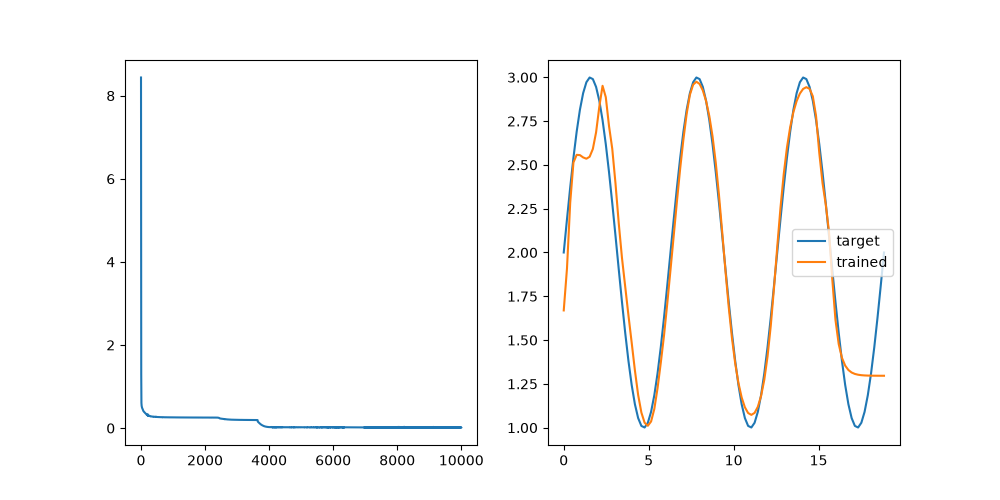
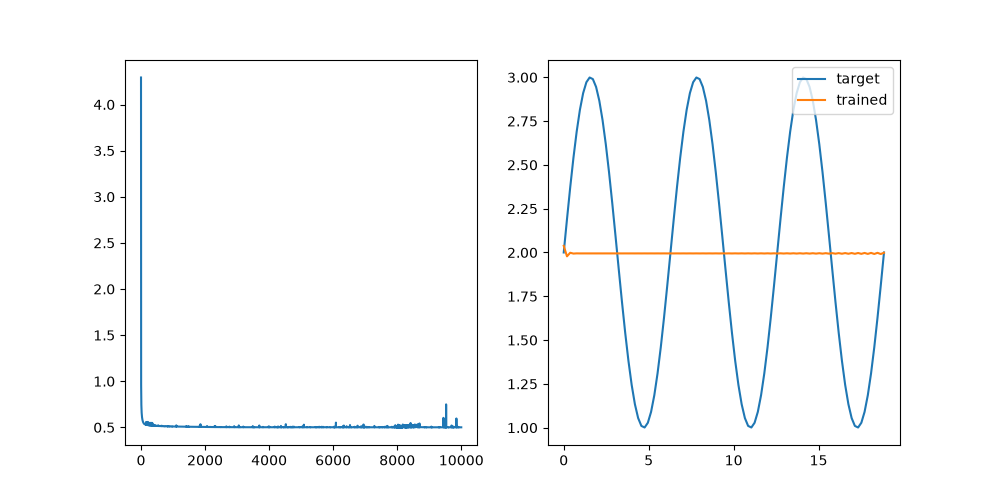
comine_ensemble_outputx axis argument, infomax experiment

diff --git a/jax_rtrl/models/plasticity.py b/jax_rtrl/models/plasticity.py
@@ -22,18 +22,25 @@ class Plasticity:
         @param traces:
         @return: traces so calls can be chained
         """
-        batched_units = (batch_size, self.cell.units) if batch_size else (self.cell.units,)
+        batched_units = (
+            (batch_size, self.cell.units) if batch_size else (self.cell.units,)
+        )
         # batched_out = (batch_size, self.cell.out_size) if batch_size else (
         #     self.cell.out_size,)
         # P = dh/dw
-        traces["P"] = jax.tree.map(lambda x: jnp.zeros(batched_units + x.shape), eqx.filter(self.cell, eqx.is_array))
+        traces["P"] = jax.tree.map(
+            lambda x: jnp.zeros(batched_units + x.shape),
+            eqx.filter(self.cell, eqx.is_array),
+        )
         # if self.cell.output_mapping:
         #     # P_out = (dy/dw_out, dy/db_out)
         #     traces['P_out'] = (jnp.zeros(batched_out + self.cell.w_out.shape),
         #                        jnp.zeros(batched_out + self.cell.b_out.shape))
         if self.cell.with_dh_h:
             # Q = dh/dh
-            traces["Q"] = jnp.zeros(batched_units + (self.cell.input_size + self.cell.units,))
+            traces["Q"] = jnp.zeros(
+                batched_units + (self.cell.input_size + self.cell.units,)
+            )
         return traces
 
     @staticmethod
@@ -73,7 +80,9 @@ class Plasticity:
         @param dout:
         @return: Dictionary where key is the name of the weight and value is the update
         """
-        gradients = jax.tree.map(lambda t: jnp.einsum("H,H...->...", dout, t), traces["P"])
+        gradients = jax.tree.map(
+            lambda t: jnp.einsum("H,H...->...", dout, t), traces["P"]
+        )
 
         if with_dy_dx:
             dy_dx = jnp.einsum("H,H...->...", dout, traces["Q"])[..., : cell.input_size]
@@ -120,7 +129,9 @@ class LocalMSE(Plasticity):
             out["P_out"] = (jac_out.w_out, jac_out.b_out)
 
         if cell.with_dh_h:
-            jac_cell, jac_pre = jax.jacrev(cell.f, argnums=[0, 2], has_aux=True)(cell, [0], pre)[0]
+            jac_cell, jac_pre = jax.jacrev(cell.f, argnums=[0, 2], has_aux=True)(
+                cell, [0], pre
+            )[0]
             out["Q"] = jac_pre[-cell.units :, -cell.units :]
         else:
             jac_cell = jax.jacrev(cell.f, argnums=0, has_aux=True)(cell, [0], pre)[0]
@@ -161,15 +172,25 @@ class RTRL(Plasticity):
             return p + (rec + dh[-cell.units :]) * cell.dt
 
         # immediate jacobian (this step)
-        df_dw, df_dh = jax.jacrev(cell.f, argnums=[0, 2], has_aux=True)(cell, [0], pre)[0]
+        df_dw, df_dh = jax.jacrev(cell.f, argnums=[0, 2], has_aux=True)(cell, [0], pre)[
+            0
+        ]
 
         # dh/dh = d(h + f(h) * dt)/dh = I + df/dh * dt
-        identitiy = jnp.concatenate([jnp.zeros((cell.units, cell.input_size)), jnp.identity(cell.units)], axis=-1)
+        identitiy = jnp.concatenate(
+            [jnp.zeros((cell.units, cell.input_size)), jnp.identity(cell.units)],
+            axis=-1,
+        )
         dh_dh = identitiy + df_dh[-cell.units :]
         # / cell.dt
 
         # jacobian trace (previous step * dh_h)
-        comm = jax.tree.map(lambda p: jnp.tensordot(df_dh[..., -cell.units :, -cell.units :], p, axes=1), P)
+        comm = jax.tree.map(
+            lambda p: jnp.tensordot(
+                df_dh[..., -cell.units :, -cell.units :], p, axes=1
+            ),
+            P,
+        )
 
         # Update dh_dw approximation
         dh_dw = jax.tree.map(rtrl_step, P, comm, df_dw)
@@ -212,7 +233,9 @@ class RFLO(Plasticity):
         df_dh = jax.jacrev(cell.activation)(u)
 
         # Outer product the get Immediate Jacobian
-        M_immediate = jnp.einsum("ij,k", df_dh, jnp.concatenate([pre, jnp.ones(1)]))  # Add one for bias
+        M_immediate = jnp.einsum(
+            "ij,k", df_dh, jnp.concatenate([pre, jnp.ones(1)])
+        )  # Add one for bias
 
         # Update eligibility traces
         P = P + jnp.einsum("i,ijk->ijk", 1 / cell.tau, M_immediate - P)
@@ -241,6 +264,7 @@ class UORO(Plasticity):
         return traces
 
 
+
 class Infomax(Plasticity):
     """Information theoretic plasticity rule that maximizes the mutual information between the input and the output."""
 
@@ -259,6 +283,8 @@ class Infomax(Plasticity):
         @param ctx:
         @return:
         """
+        x = ctx["pre"][:, -1]
+        y = ctx["h_new"][0, -1]
         if self.type == "ax+b":
             if self.activation == "sigm":
                 da = x * (1 - 2 * y) + 1 / (self.a + 1e-8)

diff --git a/jax_rtrl/models/cells/ltc.py b/jax_rtrl/models/cells/ltc.py
@@ -36,8 +36,8 @@ def ltc_farsang(params, h, x):
 
     h' = -fi hi + ui eli.
 
-    fi = Pm+n  \sum gji sigmoid(aji yj + bji) + gli
-    ui = Pm+n  \sum kji sigmoid(aji yj + bji) + gli
+    fi = Pm+n  sum gji sigmoid(aji yj + bji) + gli
+    ui = Pm+n  sum kji sigmoid(aji yj + bji) + gli
     kji = gji eji/eli
     """
     # Concatenate input and hidden state
@@ -102,7 +102,33 @@ class LTCCell(ODECell):
         return 1
 
 
-def rflo_ltc(cell: LTCCell, carry, params, x):
+def infomax(pre, post, a, b, activation="sigm", regularization=1e-3):
+    """Compute the infomax update for the weights.
+
+    Args:
+        pre: pre-synaptic activity
+        post: post-synaptic activity
+        a: gain parameter
+        b: bias parameter
+        activation: activation function
+        regularization: regularization parameter
+    Returns:
+        da: update for gain parameter
+        db: update for bias parameter
+    """
+    if activation == "sigm":
+        da = pre * (1 - 2 * post) + 1 / (a + 1e-8)
+        db = 1 - 2 * post
+    else:
+        da = -2 * pre * post + 1 / (a + 1e-8)
+        db = -2 * post
+    if regularization > 0:
+        da -= regularization * a
+        db -= regularization * b
+    return da, db
+
+
+def rflo_ltc(cell: LTCCell, carry, params, x, use_infomax=True):
     """Compute jacobian trace for RFLO."""
     h, jp, jx = carry
 
@@ -138,6 +164,8 @@ def rflo_ltc(cell: LTCCell, carry, params, x):
     # dh_db = dh_dh[:, None] * jp["b"]
 
     # Infomax
+    if use_infomax:
+        dh_da, dh_db = infomax(y, syn, params["a"], params["b"], activation="sigm")
     # dh_db = 1 - 2 * syn
     # dh_da = 1 / params["a"] + y * dh_db
 
@@ -174,7 +202,13 @@ class OnlineLTCCell(OnlineODECell, LTCCell):
                 traces = snap0(self, carry, _p["params"], x, ode=_ode_fn)
 
         elif self.plasticity == "rflo":
-            traces = rflo_ltc(self, carry, _p["params"], x)
+            traces = rflo_ltc(
+                self,
+                carry,
+                _p["params"],
+                x,
+                use_infomax=self.non_rtrl_params is not None,
+            )
         else:
             raise ValueError(f"Plasticity mode {self.plasticity} not recognized.")
         return traces

diff --git a/jax_rtrl/models/cells/ode.py b/jax_rtrl/models/cells/ode.py
@@ -39,7 +39,7 @@ class ODECell(nn.RNNCellBase):
                 self.make_rng() if self.has_rng("params") else None,
                 w_shape,
                 int,
-            )#.value
+            )  # .value
 
     def solve(self, h, x, return_sequences=False):
         """Solve ODE over time T with step dt."""
@@ -80,6 +80,7 @@ class OnlineODECell(ODECell):
     """Online CTRNN module."""
 
     plasticity: str = "rtrl"
+    non_rtrl_params: list[str] = field(default_factory=list)
 
     @nn.compact
     def __call__(self, carry, x, return_sequences=False):  # noqa
@@ -139,8 +140,18 @@ class OnlineODECell(ODECell):
                 # carry, jp, jx, hebb = tmp
                 df_dy = y_bar[-1]
                 df_dy += y_bar[-2][0]  # Also include carry grad
+                h, jp, jx = tmp
+                # Split into RTRL and non-RTRL params (e.g. for infomax)
+                _rtrl_grads = {
+                    k: v for k, v in jp.items() if k not in self.non_rtrl_params
+                }
+                # Compute RTRL gradients
                 grads_p, grads_x = self.online_gradient(
-                    tmp, df_dy, plasticity=self.plasticity
+                    _rtrl_grads, jx, df_dy, plasticity=self.plasticity
+                )
+                # Merge with non-RTRL params
+                grads_p.update(
+                    {k: v for k, v in jp.items() if k in self.non_rtrl_params}
                 )
                 # grads_p['W'] += hebb
                 carry = jax.tree.map(jnp.zeros_like, tmp)
@@ -170,10 +181,9 @@ class OnlineODECell(ODECell):
         raise NotImplementedError("_trace_update must be implemented in subclasses.")
 
     @staticmethod
-    def online_gradient(carry, df_dy, plasticity="rflo"):
+    def online_gradient(jp, jx, df_dy, plasticity="rflo"):
         """Compute RTRL gradient."""
-        h, jp, jx = carry
-        if plasticity == "rtrl":
+        if plasticity in ["rtrl", "snap0"]:
             grads_p = jax.tree.map(lambda t: df_dy @ t, jp)
         else:
             grads_p = jax.tree.map(lambda t: (df_dy.T * t.T).T, jp)

diff --git a/jax_rtrl/models/seq_models.py b/jax_rtrl/models/seq_models.py
@@ -572,7 +572,7 @@ def make_obs_visibility_mask(rng, shape, visible_prob=1.0, first_full=True):
         return mask
 
 
-def combine_ensemble_outputs(outs, method="mean", combine_layer=None, x=None):
+def combine_ensemble_outputs(outs, method="mean", combine_layer=None, x=None, axis=-2):
     """Combine outputs from ensemble modules using the specified method.
 
     Args:
@@ -585,15 +585,15 @@ def combine_ensemble_outputs(outs, method="mean", combine_layer=None, x=None):
     # Combine them using ensemble method
     if method == "mean":
         # Compute mean of outputs
-        combined_dist = jax.tree.map(lambda d: d.mean(axis=0), outs)
+        combined_dist = jax.tree.map(lambda d: d.mean(axis=axis), outs)
     elif method == "median":
         # Compute median of outputs
-        combined_dist = jax.tree.map(lambda d: d.median(axis=0), outs)
+        combined_dist = jax.tree.map(lambda d: d.median(axis=axis), outs)
     elif method == "linear":
         # Compute linear combination of outputs
         out_gates = combine_layer(x)
         out_gates = jax.nn.softmax(out_gates, axis=-1)
-        combined_dist = jax.tree.map(lambda d: jnp.dot(out_gates, d), outs)
+        combined_dist = jax.tree.map(lambda d: jnp.dot(out_gates, d, axis=axis), outs)
     elif method == "dist":
         combined_dist = UniformMixture(outs)
     elif method == "kalman":
@@ -710,6 +710,7 @@ class RNNEnsemble(nn.RNNCellBase):
                     if self.config.ensemble_method == "linear"
                     else None,
                     x=jnp.concatenate([outs.flatten(), x.flatten()], axis=-1),
+                    axis=0,
                 )
             else:
                 # Do not combine, return all distributions

diff --git a/jax_rtrl/supervised/supervised_online.py b/jax_rtrl/supervised/supervised_online.py
@@ -30,20 +30,29 @@ class TrainingConfig:
     # dataset: str = "legacy_rollouts"
     dataset: str = "sine"
     # dataset: str = "spirals"
-    learning_rate: float = 1e-4
+    learning_rate: float = 3e-4
     gradient_clip: float | None = None
     num_steps: int = 10000
 
     rnn_config: RNNEnsembleConfig = field(
         default_factory=lambda: RNNEnsembleConfig(
+            ## CT-RNN
             model_name="rflo",
+            # model_name="eprop",
             # model_name="snap0",
             # model_name="rtrl",
+            ## LRC
+            # model_name="lrc_rflo",
             # model_name="lrc_snap0",
-            # model_name="ltc_rtrl",
             # model_name="lrc_rtrl",
+            ## LTC
             # model_name="ltc_rflo",
-            _layers=(32,),
+            # model_name="ltc_rflo_infomax",
+            # model_name="ltc_snap0",
+            # model_name="ltc_rtrl",
+            ## LRU
+            # model_name="lru_rtrl",
+            _layers=(16,),
             num_modules=1,
             num_blocks=1,
             layer_config=SequenceLayerConfig(
@@ -161,8 +170,8 @@ def main(cfg: TrainingConfig, plot: bool = True):
             plt.savefig("plots/sinewave.png")
             plt.show()
         else:
-            plt.plot(y_test[:, 0, ..., 0], label="target")
-            plt.plot(y_hat[:, 0, ..., 0], label="trained")
+            plt.plot(y_test[0, :100, 0], label="target")
+            plt.plot(y_hat[0, :100, 0], label="trained")
             plt.legend()
             os.makedirs("plots/supervised", exist_ok=True)
             plt.savefig(

diff --git a/jax_rtrl/models/cells/lrc.py b/jax_rtrl/models/cells/lrc.py
@@ -111,14 +111,13 @@ class LRCCell(ODECell):
 def rflo_lrc(cell: LRCCell, carry, params, x):
     """Compute jacobian trace for RFLO."""
     h, jp, jx = carry
-    W, tau = params.values()
 
     jw = jp["W"]
     jtau = jp["tau"]
 
     # immediate jacobian (this step)
     v = jnp.concatenate([x, h, jnp.ones(x.shape[:-1] + (1,))], axis=-1)
-    u = v @ W.T
+    u = v @ params["W"].T
     # df_dh = jax.jacfwd(jax.nn.tanh)(u)
     # df_dh = jax.jacrev(jax.nn.tanh)(u)
     df_dh = 1 - jnp.tanh(u) ** 2
@@ -131,9 +130,9 @@ def rflo_lrc(cell: LRCCell, carry, params, x):
     M_immediate = df_dh[..., None] * v[None]
 
     # Update eligibility traces
-    jw += (1 / tau)[:, None] * (M_immediate - jw)
-    dh_dtau = ((h - jnp.tanh(u)) / tau) - jtau
-    jtau += dh_dtau / tau
+    jw += (1 / params["tau"])[:, None] * (M_immediate - jw)
+    dh_dtau = ((h - jnp.tanh(u)) / params["tau"]) - jtau
+    jtau += dh_dtau / params["tau"]
 
     df_dw = {"W": jw, "tau": jtau}
     dh_dx = jnp.outer(
@@ -143,7 +142,7 @@ def rflo_lrc(cell: LRCCell, carry, params, x):
                 [jnp.ones_like(x), jnp.zeros_like(h), jnp.zeros(x.shape[:-1] + (1,))],
                 axis=-1,
             )
-            @ W.T
+            @ params["W"].T
         )[..., : x.shape[-1]],
     )
     # dh_dh = df_dh @ W.T[x.shape[-1]:x.shape[-1]+h.shape[-1]]

diff --git a/jax_rtrl/supervised/example_datasets.py b/jax_rtrl/supervised/example_datasets.py
@@ -229,11 +229,12 @@ def sine(length=100, offset=2, num_periods=3):
 # Gym Simulations ---------------------------------------------------------------
 
 
-def legacy_rollouts(data_folder="data/spring/halfcheetah", with_time=False):
+def legacy_rollouts(data_folder="data/brax/spring/ant", with_time=False):
     """Load a dataset from the BulletEnv simulator."""
     outputs, _ = load_np_files_from_folder(data_folder, is_npz=True, stack=False)
-    obs = outputs["obs"]
-    return obs, obs
+    obs = outputs["obs"][..., :4]  # Only take the first 4 obs dimensions
+    act = outputs["act"][..., :1]  # Only take the first 1 act dimensions
+    return obs, act
 
 
 def rollouts(data_folder="data/cheetah", with_time=False):

diff --git a/jax_rtrl/models/cells/__init__.py b/jax_rtrl/models/cells/__init__.py
@@ -47,6 +47,7 @@ ONLINE_CELL_TYPES = {
     # TODO: add ODE types for LTC
     "ltc_rtrl": partial(OnlineLTCCell, plasticity="rtrl"),
     "ltc_rflo": partial(OnlineLTCCell, plasticity="rflo"),
+    "ltc_rflo_infomax": partial(OnlineLTCCell, plasticity="rflo", non_rtrl_params=["a", "b"]),
     "ltc_snap0": partial(OnlineLTCCell, plasticity="snap0"),
     # LRC
     "lrc_rtrl": partial(OnlineLRCCell, plasticity="rtrl"),

diff --git a/jax_rtrl/supervised/training_utils.py b/jax_rtrl/supervised/training_utils.py
@@ -113,7 +113,7 @@ def train_rnn_online(
         def print_progress(i, loss):
             if i % 10 == 0:
                 pbar.set_description(
-                    f"Iteration {i} | Loss: {loss.mean():.3f}", refresh=False
+                    f"Iteration {i} | Loss: {loss.mean():.3e}", refresh=False
                 )
                 pbar.update(10)
 
